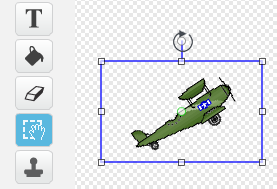
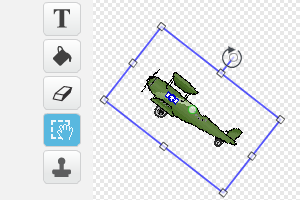
Inkludert fikser fra Arve, lagt til referanser/backlinks for bilder

diff --git a/src/scratch/kingkong/kingkong.md b/src/scratch/kingkong/kingkong.md
@@ -48,11 +48,14 @@ skyskraper, et fly og en gorilla.
 
     Her er noen eksempler, men bruk gjerne bilder du finner selv:
 
-    Skyskraper: [![](skyskraper.png "skyskraper")](http://www.iconarchive.com/show/home-sweet-home-icons-by-iconka/Home-Skyscraper-icon.html)
+    ![](eksempel.png)
 
-    Fly: [![](fly.png "fly")](http://hellraz3r.deviantart.com/art/Plane-Pixel-Art-193480982)
-
-    King Kong: [![](kong.png "king kong")](http://www.flaticon.com/free-icon/small-monkey-with-long-tail_28726)
+    Skyskraper fra
+    [www.iconka.com](http://www.iconarchive.com/show/home-sweet-home-icons-by-iconka/Home-Skyscraper-icon.html),
+    fly fra
+    [hellraz3r.deviantart.com](http://hellraz3r.deviantart.com/art/Plane-Pixel-Art-193480982)
+    og King Kong fra
+    [www.freepik.com](http://www.flaticon.com/free-icon/small-monkey-with-long-tail_28726).
 
 + Etter at du har lastet ned bildene fra nettet er det på tide å ta
   dem inn som nye figurer i Scratch. Gå tilbake til Scratch. Klikk på
@@ -61,9 +64,9 @@ skyskraper, et fly og en gorilla.
   med de andre bildene, slik at du har tre figurer, en skyskraper, et
   fly og en King Kong-figur.
 
-+ Figurene får navn fra bildefilene. Endre gjerne navnet på figurene
-  under `Drakter` til `skyskraper`, `fly` og `kong` slik at det blir enklere å
-  holde oversikten.
++ Figurene får navn fra bildefilene. Endre gjerne navnet på figurene i
+  figurlisten til `skyskraper`, `fly` og `kong` slik at det blir
+  enklere å holde oversikten.
 
 ### Hvilke bilder kan du bruke? {.protip}
 
@@ -220,10 +223,10 @@ skyskraperen.
 
     ```blocks
     når jeg starter som klon
-    vis
     pek i retning (45 v)
     gå til x: (-280) y: (-140)
-    gjenta til ((y-posisjon) > (200))
+    vis
+    gjenta til ((y-posisjon) > (190))
         gå (10) steg
     slutt
     slett denne klonen
@@ -252,6 +255,7 @@ skyskraperen.
         pek i retning (-45 v)
         gå til x: (280) y: (-140)
     slutt
+    vis
     gjenta til ((y-posisjon) > (190))
         gå (10) steg
     slutt
